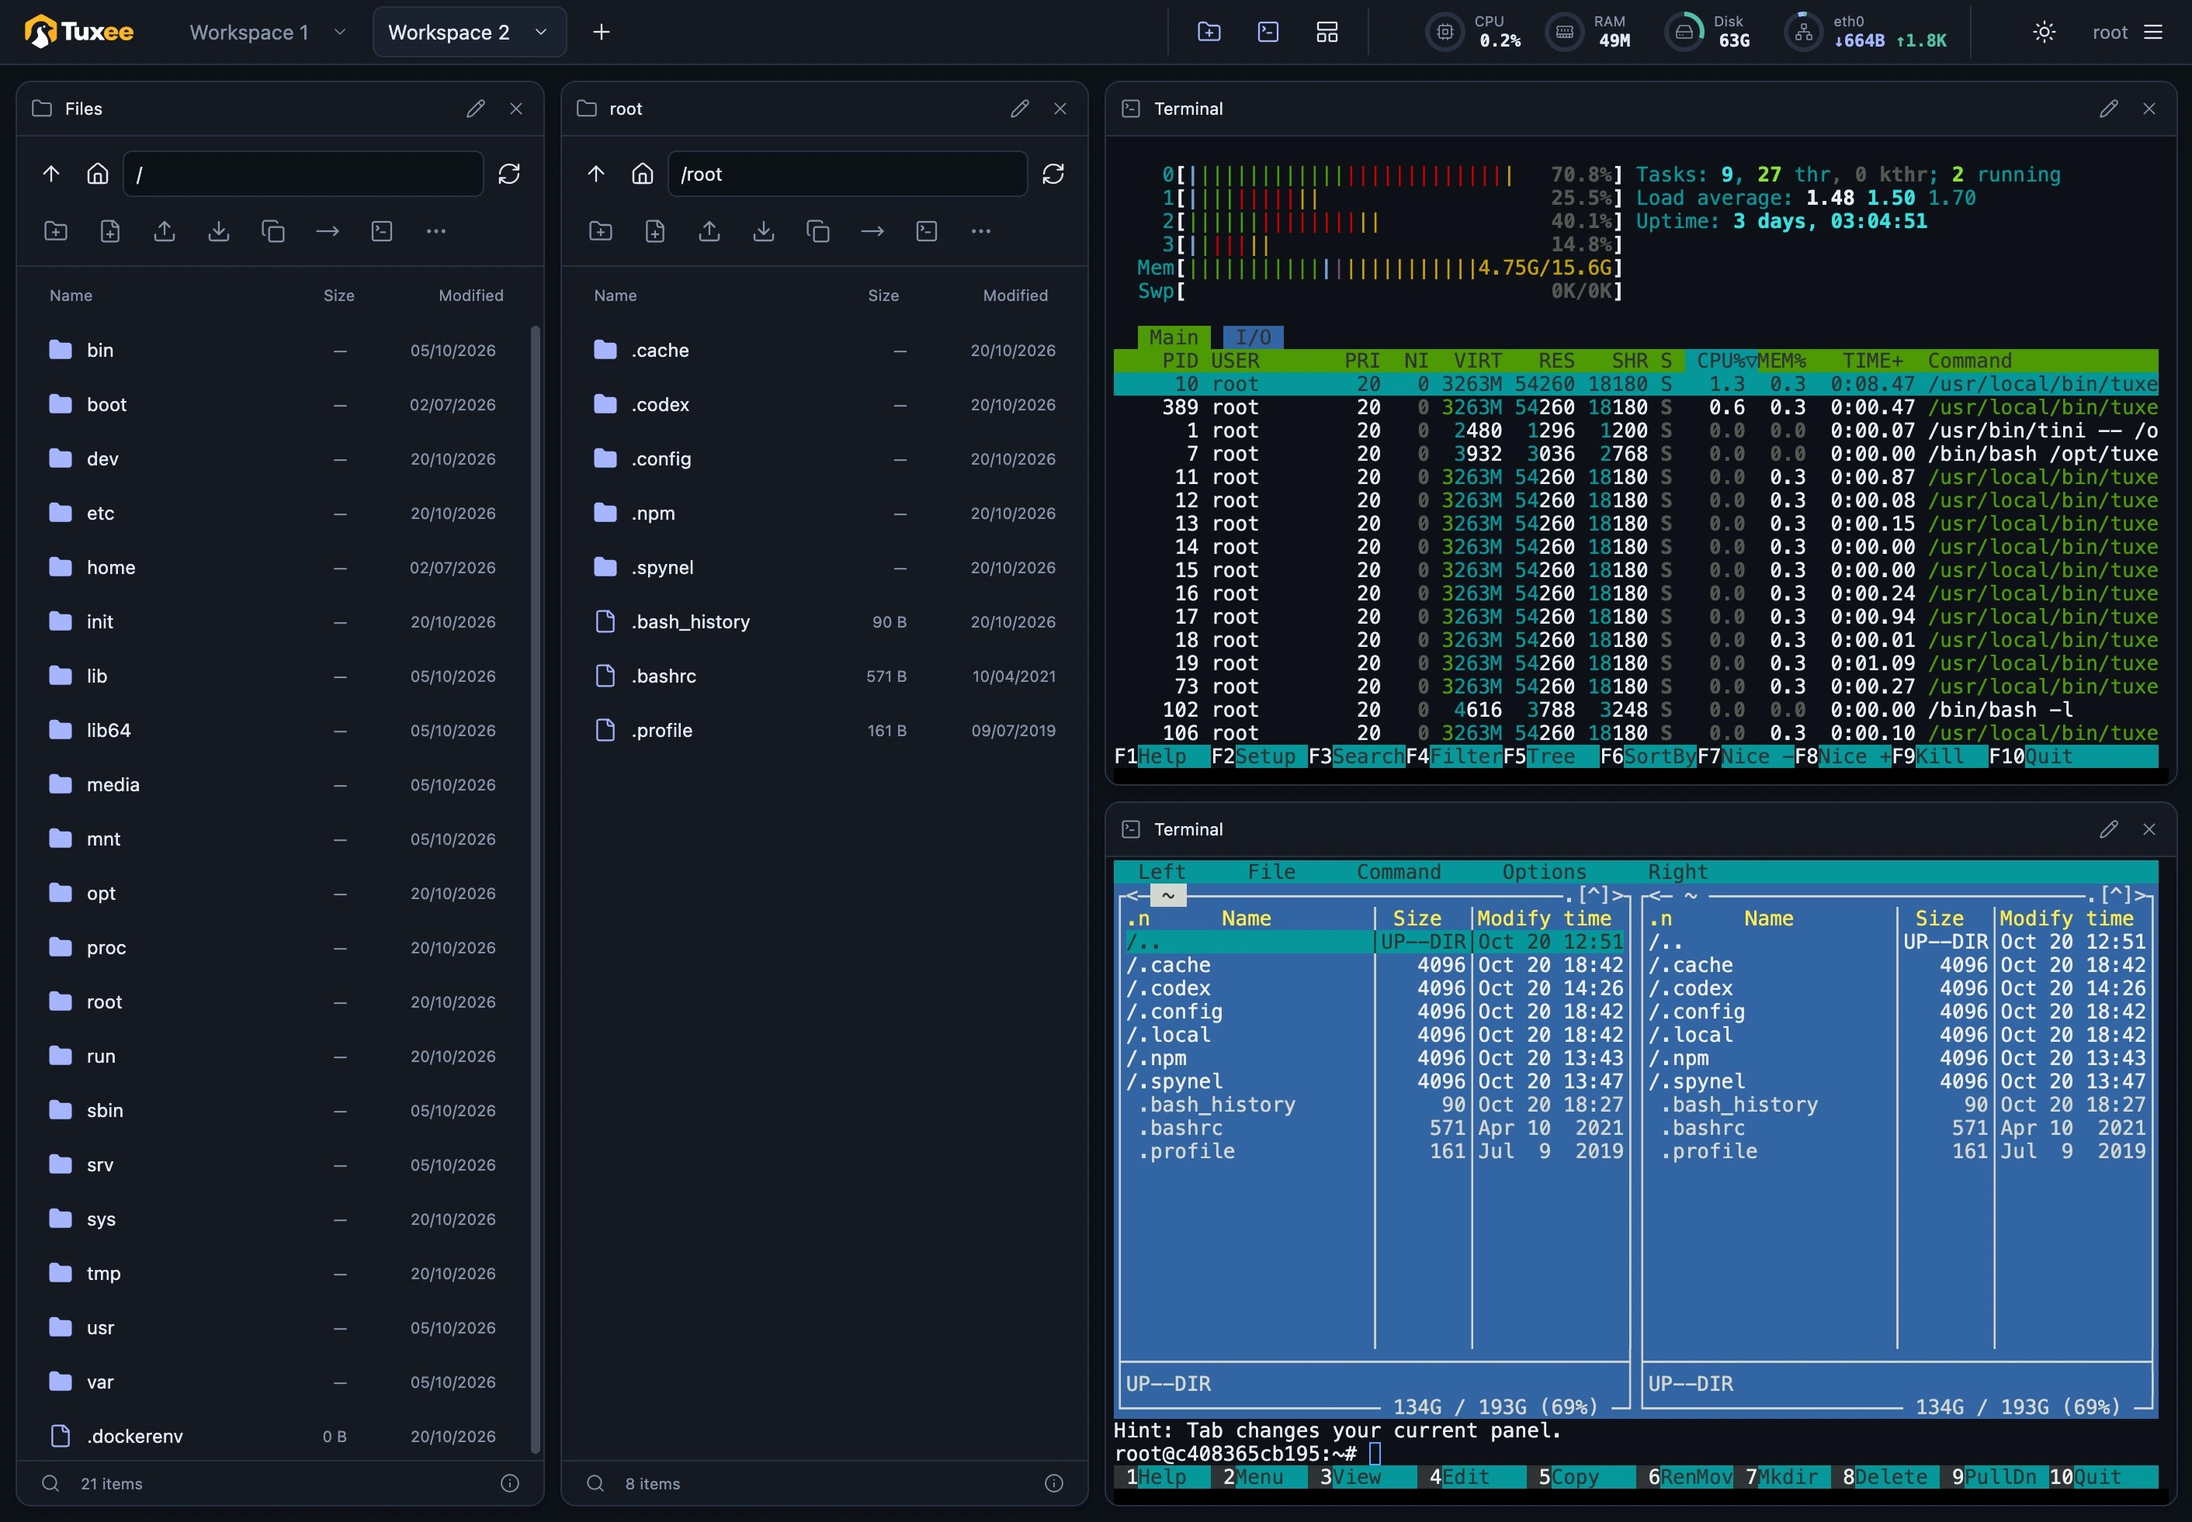
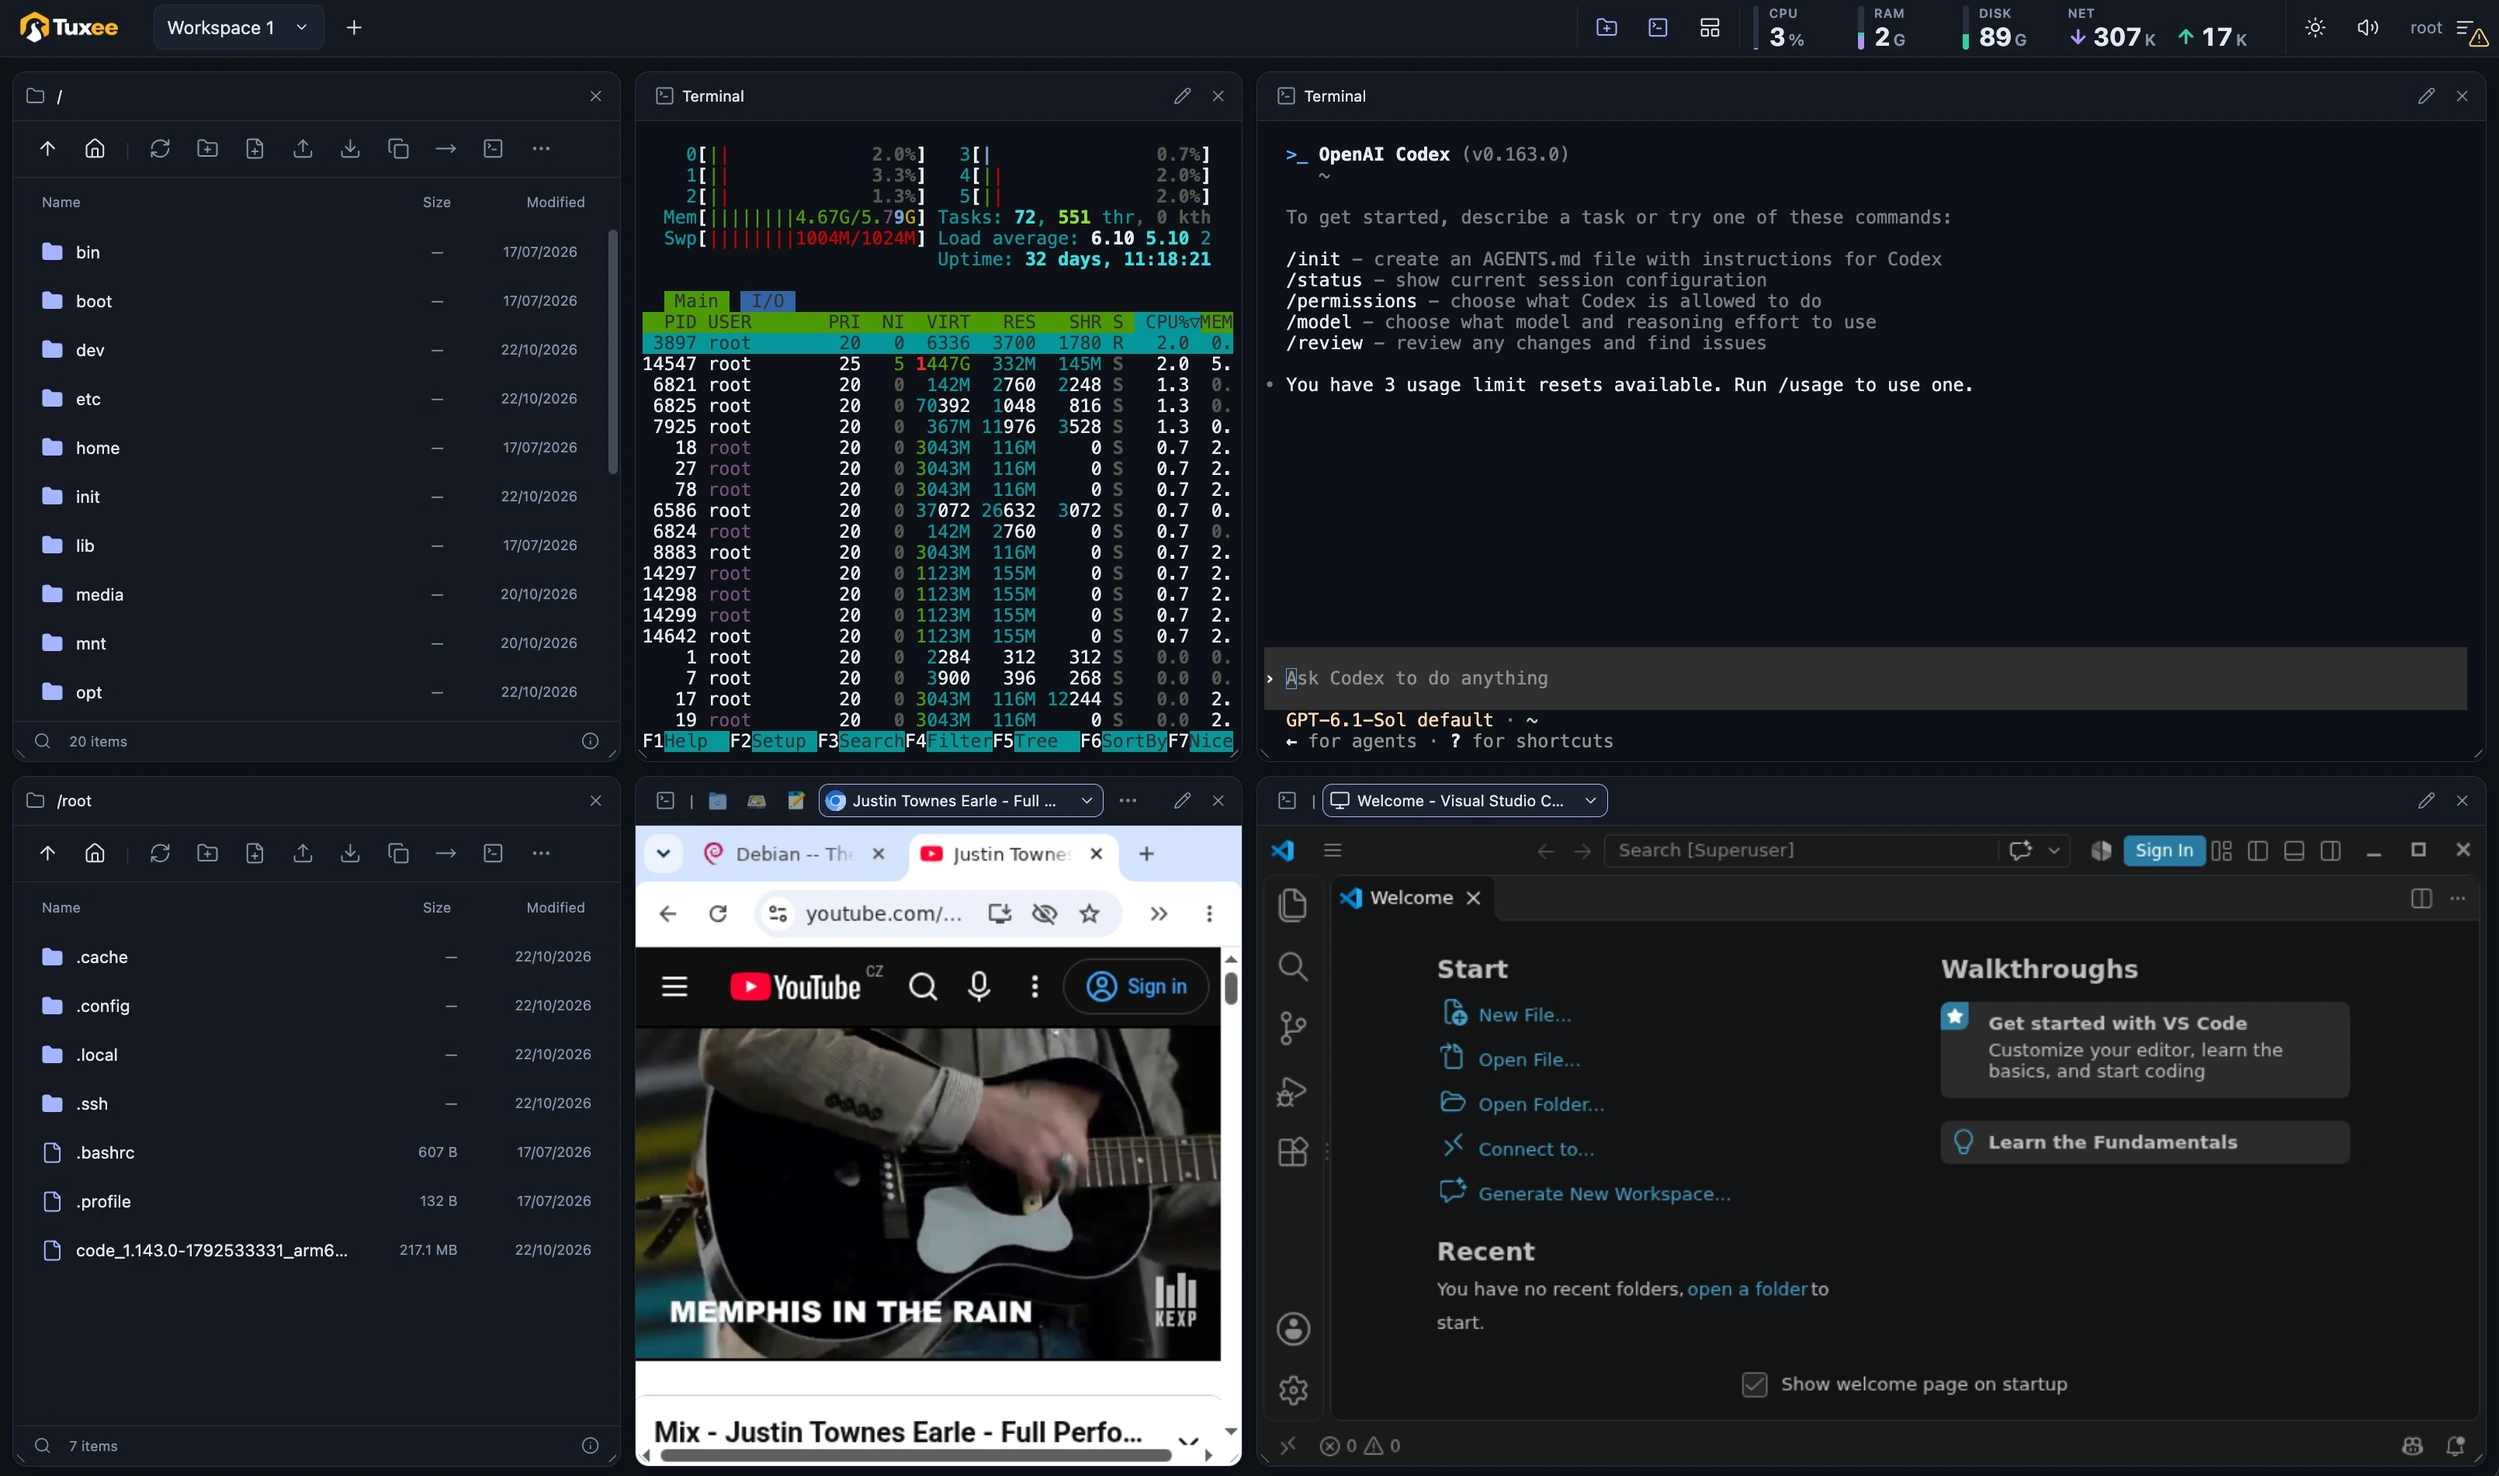
docs: refresh README images and highlight GUI apps

diff --git a/README.md b/README.md
@@ -18,7 +18,7 @@ terminals. Also available as a standalone web interface for existing Linux serve
   <tr>
     <td width="50%" align="center" valign="middle">
       <a href=".github/resources/screenshots/lightweight-metrics.jpg" target="_blank" rel="noopener noreferrer">
-        <img src=".github/resources/screenshots/lightweight-metrics-thumb.jpg" alt="Tuxee metrics infographic: 0% CPU, 10 MB RAM, 41 MB Docker image and 1 second startup time" width="100%">
+        <img src=".github/resources/screenshots/lightweight-metrics-thumb.jpg" alt="Tuxee metrics infographic: 0% CPU, 10 MB RAM, 60 MB Docker image and 1 second startup time" width="100%">
       </a>
     </td>
     <td width="50%" valign="middle">
@@ -40,13 +40,14 @@ terminals. Also available as a standalone web interface for existing Linux serve
   <tr>
     <td width="50%" align="center" valign="middle">
       <a href=".github/resources/screenshots/file-managers-persistent-terminals.webp" target="_blank" rel="noopener noreferrer">
-        <img src=".github/resources/screenshots/file-managers-persistent-terminals-thumb.webp" alt="Two file managers alongside persistent terminals running htop and Midnight Commander" width="100%">
+        <img src=".github/resources/screenshots/file-managers-persistent-terminals-thumb.webp" alt="File managers and persistent terminals running htop and Codex, alongside Chromium and Visual Studio Code GUI apps" width="100%">
       </a>
     </td>
     <td width="50%" valign="middle">
       <h3>File managers and <b>(persistent!)</b> terminals. That's all you need.</h3>
       <p>Easy access to server files and terminals that don't die when you log out.</p>
       <p>Great for system admins, perfect for running agents.</p>
+      <p><strong>Oh, and GUI apps work great too!</strong></p>
     </td>
   </tr>
   <tr>
